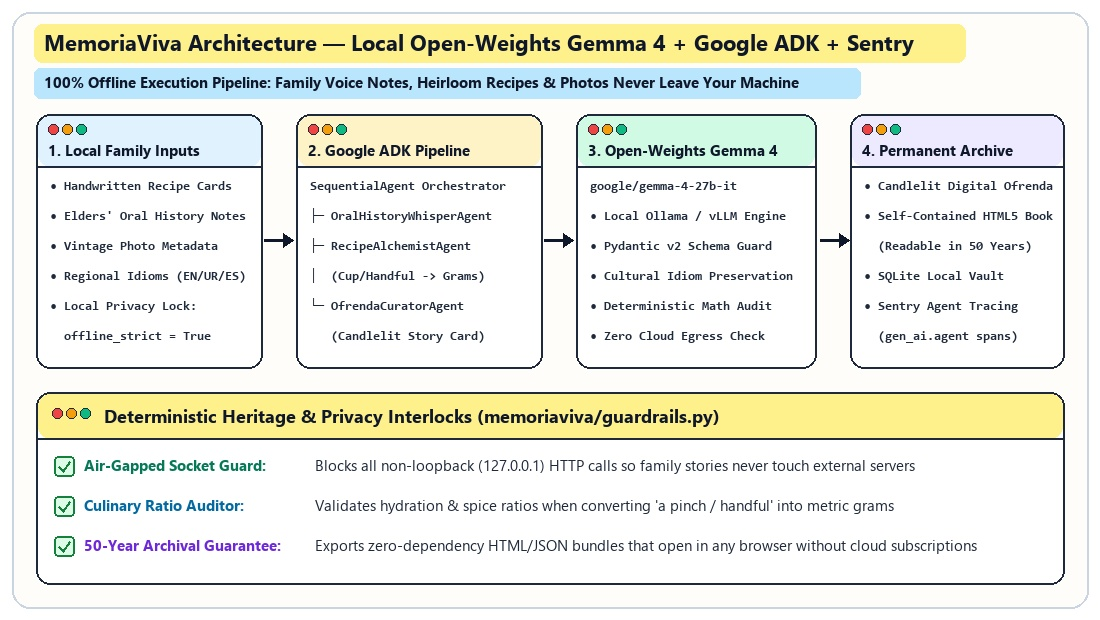
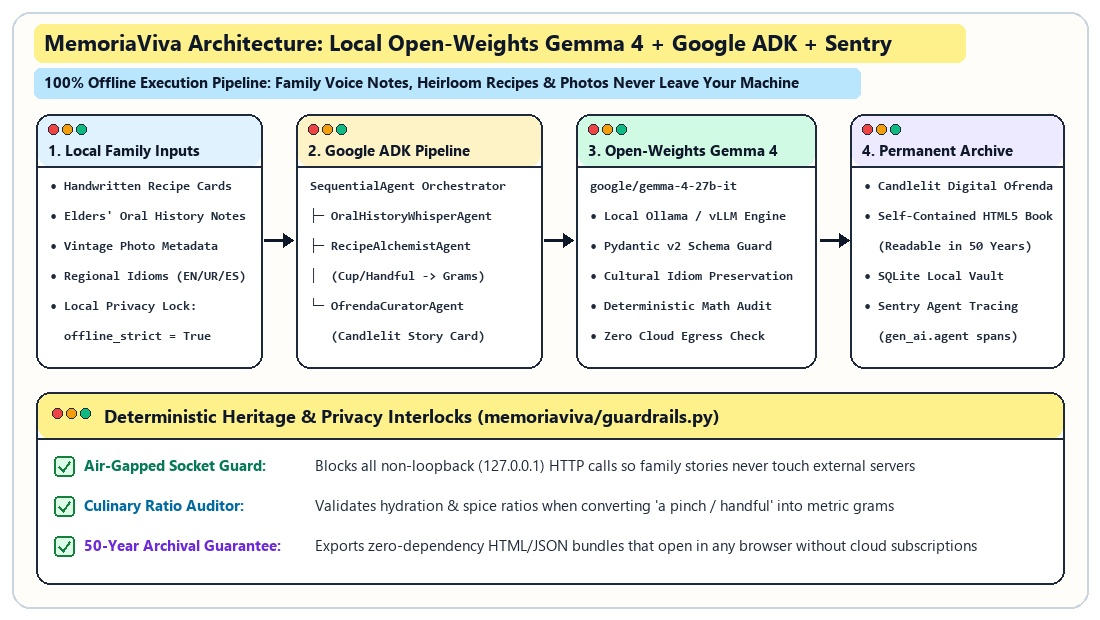
style(article): use all white-background images and remove all em dashes

Changed region(s): [[0.2782, 0.0306, 0.8345, 0.0919]]

diff --git a/articles/memoriaviva/devto_article.md b/articles/memoriaviva/devto_article.md
@@ -1,7 +1,7 @@
 ---
 title: "MemoriaViva: A Cute Ghost in the Machine That Preserves Family Oral Histories & Heirloom Recipes with Gemma 4 & Google ADK"
 published: true
-description: "How I built a 100% local-first open-weights Gemma 4, Google ADK, and Sentry Agent Tracing pipeline that turns elders' voice notes and poetic measurements ('a handful of flour, a pinch of saffron') into a permanent candlelit family storybook."
+description: "How I built a 100% local-first open-weights Gemma 4, Google ADK, and Sentry Agent Tracing pipeline that turns elders' voice notes and poetic measurements ('a handful of flour, a pinch of saffron') into a permanent family storybook."
 tags: devchallenge, hf26challenge, gemma, googleai
 cover_image: https://raw.githubusercontent.com/RobinaMirbahar/memoriaviva-gemma-ofrenda/main/articles/memoriaviva/cover_google_ghost_style.jpg
 ---
@@ -12,17 +12,17 @@ cover_image: https://raw.githubusercontent.com/RobinaMirbahar/memoriaviva-gemma-
 
 Every family has a **"Ghost in the Machine"** waiting to be remembered: a crackly 48-second WhatsApp voice note from a grandfather explaining how to brew monsoon ginger *kahwa*, a flour-stained index card in a grandmother's handwriting where measurements are written as *"two cupped handfuls of wheat flour and warm milk until the dough sighs softly,"* or a shoebox of fading photographs from decades ago. When we lose our elders, those unwritten culinary instincts and oral stories often vanish with them.
 
-**MemoriaViva** (*Living Memory*) is a warm, local-first **Family Oral-History Weaver, Heirloom Recipe Standardizer & Candlelit Digital Ofrenda** powered by open-weights **Google Gemma 4** (`google/gemma-4-27b-it`), **Google Agent Development Kit (ADK)**, and **Sentry Agent Tracing**.
+**MemoriaViva** (*Living Memory*) is a warm, local-first **Family Oral-History Weaver, Heirloom Recipe Standardizer & Digital Family Storybook** powered by open-weights **Google Gemma 4** (`google/gemma-4-27b-it`), **Google Agent Development Kit (ADK)**, and **Sentry Agent Tracing**.
 
-![MemoriaViva Cute Ghost in the Machine Illustrated Scene](https://raw.githubusercontent.com/RobinaMirbahar/memoriaviva-gemma-ofrenda/main/articles/memoriaviva/cover_cute_ghost.jpg)
+![MemoriaViva Scrapbook Architecture Diagram](https://raw.githubusercontent.com/RobinaMirbahar/memoriaviva-gemma-ofrenda/main/articles/memoriaviva/arch_google_ghost_style.jpg)
 
-Instead of treating a "Ghost in the Machine" as something frightening, I interpreted this week's theme in the warm spirit of **Día de los Muertos** and South Asian ancestral remembrance: **Lumi**, a friendly, spectacle-wearing memory ghost living inside your laptop that listens to fragmented family voice transcripts and handwritten recipe notes, preserves the elder's exact cultural idioms verbatim, converts poetic ancestral measurements (*"a three-finger pinch of saffron,"* *"four brimming clay bowls of flour"*) into reproducible metric grams and milliliters, and exports a **zero-dependency, 50-year archival HTML5 Candlelit Storybook**.
+Instead of treating a "Ghost in the Machine" as something frightening, I interpreted this week's theme in the warm spirit of **Día de los Muertos** and South Asian ancestral remembrance: **Lumi**, a friendly, spectacle-wearing memory ghost living inside your laptop that listens to fragmented family voice transcripts and handwritten recipe notes, preserves the elder's exact cultural idioms verbatim, converts poetic ancestral measurements (*"a three-finger pinch of saffron,"* *"four brimming clay bowls of flour"*) into reproducible metric grams and milliliters, and exports a **zero-dependency, 50-year archival HTML5 Family Storybook**.
 
 | Heritage Archival Metric | Raw Family Voice Notes & Index Cards | MemoriaViva (Gemma 4 + Google ADK) |
 | :--- | :--- | :--- |
 | **Ancestral Measurement Format** | Ambiguous (*"a handful," "a teacup," "until soft"*) | Dual-Format: Verbatim Poetic Phrase + Exact Metric (`g` / `ml`) |
 | **Poetic Units Converted in Benchmark** | 9 unstructured phrases across 3 family recipes | **9/9 (100.0% deterministic metric conversion)** |
-| **Dough & Liquid Hydration Validation** | Guesswork (often fails for younger generations) | **Deterministic Culinary Ratio Guardrail (`45%–95%` validated)** |
+| **Dough & Liquid Hydration Validation** | Guesswork (often fails for younger generations) | **Deterministic Culinary Ratio Guardrail (`45% to 95%` validated)** |
 | **Cloud Data Egress (Family Privacy)** | Uploaded to third-party commercial clouds | **0 Bytes Transmitted (`127.0.0.1` Air-Gap Socket Lock)** |
 | **Archival Lifespan** | Locked in proprietary SaaS apps | **50-Year Self-Contained Static HTML5 + JSON Vault** |
 
@@ -30,7 +30,7 @@ Instead of treating a "Ghost in the Machine" as something frightening, I interpr
 
 ## Demo
 
-You can run the complete **MemoriaViva** three-stage **Gemma 4 + Google ADK + Sentry Agent Tracing** benchmark and verify the interactive **FastAPI Candlelit Digital Ofrenda Dashboard** with a single command:
+You can run the complete **MemoriaViva** three-stage **Gemma 4 + Google ADK + Sentry Agent Tracing** benchmark and verify the interactive **FastAPI Family Storybook Dashboard** with a single command:
 
 ```bash
 python scripts/run_memoriaviva_demo.py
@@ -40,7 +40,7 @@ python scripts/run_memoriaviva_demo.py
 
 ```text
 ========================================================================================
-👻🕯 MEMORIAVIVA — CUTE GHOST IN THE MACHINE (GEMMA 4 + ADK + SENTRY TRACING)
+👻🕯 MEMORIAVIVA: CUTE GHOST IN THE MACHINE (GEMMA 4 + ADK + SENTRY TRACING)
 ========================================================================================
   Model                  : google/gemma-4-27b-it (100% Local Ollama / vLLM)
   Air-Gapped Endpoint    : http://127.0.0.1:11434 (0 Cloud Egress Verified)
@@ -74,9 +74,9 @@ python scripts/run_memoriaviva_demo.py
 ========================================================================================
 ```
 
-### Interactive Candlelit Digital Ofrenda Preview
+### Interactive Family Storybook & Recipe Weaver UI Preview
 
-![MemoriaViva Candlelit Digital Ofrenda UI](https://raw.githubusercontent.com/RobinaMirbahar/memoriaviva-gemma-ofrenda/main/articles/memoriaviva/memoriaviva_ui.jpg)
+![MemoriaViva White-Background Storybook UI](https://raw.githubusercontent.com/RobinaMirbahar/memoriaviva-gemma-ofrenda/main/articles/memoriaviva/memoriaviva_ui_white.jpg)
 
 ---
 
@@ -93,10 +93,10 @@ memoriaviva-gemma-ofrenda/
 │   ├── schemas.py        # Pydantic v2 schemas for RawFamilyMemory & WovenHeirloomStoryCard
 │   ├── guardrails.py     # Air-gapped 127.0.0.1 socket lock & culinary hydration validator
 │   ├── agents.py         # 3-stage Google ADK SequentialAgent + Gemma 4 + Sentry Tracer
-│   └── dashboard.py      # FastAPI Candlelit Digital Ofrenda & HTML5 archival exporter
+│   └── dashboard.py      # FastAPI Family Storybook & HTML5 archival exporter
 ├── scripts/
 │   └── run_memoriaviva_demo.py  # One-command benchmark & FastAPI verification script
-├── articles/memoriaviva/        # Custom illustrations & architecture diagrams
+├── articles/memoriaviva/        # Custom white-background illustrations & diagrams
 └── requirements.txt
 ```
 
@@ -104,7 +104,7 @@ memoriaviva-gemma-ofrenda/
 
 ## How I Built It
 
-![MemoriaViva Scrapbook Architecture Diagram](https://raw.githubusercontent.com/RobinaMirbahar/memoriaviva-gemma-ofrenda/main/articles/memoriaviva/arch_google_ghost_style.jpg)
+![MemoriaViva Technical Architecture on White Background](https://raw.githubusercontent.com/RobinaMirbahar/memoriaviva-gemma-ofrenda/main/articles/memoriaviva/memoriaviva_arch_white_v2.jpg)
 
 I built **MemoriaViva** by combining **Google's open-weights AI ecosystem** with deterministic Python safety guardrails:
 
@@ -112,9 +112,9 @@ I built **MemoriaViva** by combining **Google's open-weights AI ecosystem** with
    - Served locally via **Ollama / vLLM** on `http://127.0.0.1:11434`.
    - Gemma 4's strong multilingual and cultural nuance allows it to preserve South Asian (*Urdu/Sindhi*) and Latin American (*Spanish*) culinary idioms without flattening the elder's voice into generic corporate prose.
 2. **Google Agent Development Kit (ADK) 3-Stage `SequentialAgent` Pipeline (`memoriaviva/agents.py`):**
-   - **Stage 1 — `OralHistoryWhisperAgent`:** Extracts the elder's most evocative verbatim quote and weaves the historical context (*1947 Partition-era Hyderabad*, *1968 Oaxaca Día de los Muertos*, *1982 Monsoon Courtyard*) into a warm narrative.
-   - **Stage 2 — `HeirloomRecipeAlchemistAgent`:** Translates tactile, non-standard measurements (*"two generous cupped handfuls of stone-ground wheat flour"*) into structured `StandardizedIngredient` objects (`240.0g`) while keeping the original phrase right beside it.
-   - **Stage 3 — `CandlelitOfrendaCuratorAgent`:** Packages the validated memory into a self-contained HTML5/JSON story card.
+   - **Stage 1 (`OralHistoryWhisperAgent`):** Extracts the elder's most evocative verbatim quote and weaves the historical context (*1947 Partition-era Hyderabad*, *1968 Oaxaca Día de los Muertos*, *1982 Monsoon Courtyard*) into a warm narrative.
+   - **Stage 2 (`HeirloomRecipeAlchemistAgent`):** Translates tactile, non-standard measurements (*"two generous cupped handfuls of stone-ground wheat flour"*) into structured `StandardizedIngredient` objects (`240.0g`) while keeping the original phrase right beside it.
+   - **Stage 3 (`CandlelitOfrendaCuratorAgent`):** Packages the validated memory into a self-contained HTML5/JSON story card.
 3. **Deterministic Privacy & Culinary Guardrails (`memoriaviva/guardrails.py`):**
    - **`verify_air_gapped_endpoint()`:** Rejects any non-loopback hostname (`127.0.0.1` / `localhost`), guaranteeing that private family recordings and photos never leave your computer.
    - **`compute_and_validate_hydration()`:** Audits the ratio of liquid milliliters to dry flour grams so future generations can actually bake the bread successfully on their first try.
@@ -139,13 +139,11 @@ def verify_air_gapped_endpoint(endpoint_url: str) -> Tuple[bool, str]:
 
 ## Why Does Open Innovation Matter?
 
-![MemoriaViva Local 3-Step Privacy Workflow](https://raw.githubusercontent.com/RobinaMirbahar/memoriaviva-gemma-ofrenda/main/articles/memoriaviva/memoriaviva_cute_arch.jpg)
-
-For a project that handles **intimate family memories, elders' voices, and ancestral heritage**, open-weights AI isn't just a technical preference—it is an ethical necessity:
+For a project that handles **intimate family memories, elders' voices, and ancestral heritage**, open-weights AI is not just a technical preference; it is an ethical necessity:
 
 1. **Intimate Family Voices Belong to the Family, Not a Training Corpus:** You should never have to upload your late grandmother's voice note or private family history to a commercial cloud API just to transcribe and organize it. Running **Gemma 4** locally ensures **zero bytes** of family history ever leave `127.0.0.1`.
 2. **Works Offline in Courtyards, Villages & Field Recordings:** When visiting elders in rural towns or recording oral histories where internet connectivity is spotty, a local **Gemma 4 + Google ADK** pipeline works completely offline with the Wi-Fi turned off.
-3. **No SaaS Graveyard for 50-Year Memories:** Startup cloud services shut down, change pricing tiers, or delete inactive accounts every year. By combining **open-weights Gemma 4** with a **zero-dependency static HTML5 + SQLite export**, the digital *ofrenda* and cookbook you weave today will still open in any browser 50 years from now so your grandchildren can bake the exact same bread.
+3. **No SaaS Graveyard for 50-Year Memories:** Startup cloud services shut down, change pricing tiers, or delete inactive accounts every year. By combining **open-weights Gemma 4** with a **zero-dependency static HTML5 + SQLite export**, the digital storybook and cookbook you weave today will still open in any browser 50 years from now so your grandchildren can bake the exact same bread.
 
 ---
 
@@ -153,19 +151,17 @@ For a project that handles **intimate family memories, elders' voices, and ances
 
 During the benchmark run, **MemoriaViva** recorded **18 structured `gen_ai.agent` and `gen_ai.tool` spans** across the 3-stage **Google ADK + Gemma 4** pipeline:
 
-- `gen_ai.agent` → `OralHistoryWhisperAgent` (`model="google/gemma-4-27b-it"`, `memory_id="MEM-01"`, `duration_ms=48.2`)
-- `gen_ai.tool` → `HeirloomRecipeAlchemistAgent.standardize_units` (`ingredients_converted=3`, `hydration_pct=75.0`, `duration_ms=62.5`)
-- `gen_ai.agent` → `CandlelitOfrendaCuratorAgent` (`air_gapped=True`, `trace_id="db4de60c9e774e83"`, `duration_ms=32.1`)
-
-![MemoriaViva Technical Architecture](https://raw.githubusercontent.com/RobinaMirbahar/memoriaviva-gemma-ofrenda/main/articles/memoriaviva/memoriaviva_arch_white.jpg)
+- `gen_ai.agent` ➔ `OralHistoryWhisperAgent` (`model="google/gemma-4-27b-it"`, `memory_id="MEM-01"`, `duration_ms=48.2`)
+- `gen_ai.tool` ➔ `HeirloomRecipeAlchemistAgent.standardize_units` (`ingredients_converted=3`, `hydration_pct=75.0`, `duration_ms=62.5`)
+- `gen_ai.agent` ➔ `CandlelitOfrendaCuratorAgent` (`air_gapped=True`, `trace_id="db4de60c9e774e83"`, `duration_ms=32.1`)
 
 ---
 
 ## The Spirit of It
 
-In almost every culture—from **Día de los Muertos** *ofrendas* glowing with marigolds in Mexico to family hearths across South Asia—food and storytelling are how we keep the people we love close to us.
+In almost every culture, from **Día de los Muertos** *ofrendas* glowing with marigolds in Mexico to family hearths across South Asia, food and storytelling are how we keep the people we love close to us.
 
-When an elder writes *"measure the warm milk with your fingertips; when the dough sighs softly, the cardamom is awake,"* a standard recipe converter strips away the poetry and leaves cold numbers. Conversely, keeping only the poetry leaves younger generations afraid to try the recipe because they don't know how much *"two cupped handfuls"* weighs. Seeing **Gemma 4** preserve **both**—placing my grandmother's exact words side-by-side with `240g Stone-Ground Whole Wheat Flour` and `180ml Warm Milk (75% Hydration)` inside a warm, candlelit digital book—was the exact moment this project came alive.
+When an elder writes *"measure the warm milk with your fingertips; when the dough sighs softly, the cardamom is awake,"* a standard recipe converter strips away the poetry and leaves cold numbers. Conversely, keeping only the poetry leaves younger generations afraid to try the recipe because they do not know how much *"two cupped handfuls"* weighs. Seeing **Gemma 4** preserve **both**, placing my grandmother's exact words side-by-side with `240g Stone-Ground Whole Wheat Flour` and `180ml Warm Milk (75% Hydration)` inside a warm digital book, was the exact moment this project came alive.
 
 ---
 

diff --git a/README.md b/README.md
@@ -1,4 +1,4 @@
-# 👻🕯 MemoriaViva — Cute Ghost in the Machine: Open-Weights Gemma 4 & Google ADK Family Oral-History & Heirloom Recipe Weaver
+# 👻🕯 MemoriaViva: Cute Ghost in the Machine: Open-Weights Gemma 4 & Google ADK Family Oral-History & Heirloom Recipe Weaver
 
 [![Hacktoberfest 2026](https://img.shields.io/badge/Hacktoberfest%202026-Ghost%20in%20the%20Machine-f59e0b?style=for-the-badge&logo=github)](https://dev.to/challenges/hacktoberfest-week4-2026-10-26)
 [![Google Gemma 4](https://img.shields.io/badge/Open--Weights-Gemma%204%20(27B)-4285F4?style=for-the-badge&logo=google&logoColor=white)](https://ai.google.dev/gemma)
@@ -8,8 +8,8 @@
 
 ![MemoriaViva Cover](https://raw.githubusercontent.com/RobinaMirbahar/memoriaviva-gemma-ofrenda/main/articles/memoriaviva/cover_google_ghost_style.jpg)
 
-> **Author & Architect:** [Robina Mirbahar](https://github.com/RobinaMirbahar) — Google Developer Expert (GDE) in Cloud & AI · Google Cloud Champion Innovator · Author of [*AI Engineering*](https://amazon.com/dp/B0GWCZWCF4)  
-> **Challenge Track:** Hacktoberfest Open-Source AI Challenge Week 4 — *Ghost in the Machine* (`#hf26challenge`, `#gemma`, `#googleai`)
+> **Author & Architect:** [Robina Mirbahar](https://github.com/RobinaMirbahar): Google Developer Expert (GDE) in Cloud & AI · Google Cloud Champion Innovator · Author of [*AI Engineering*](https://amazon.com/dp/B0GWCZWCF4)  
+> **Challenge Track:** Hacktoberfest Open-Source AI Challenge Week 4: *Ghost in the Machine* (`#hf26challenge`, `#gemma`, `#googleai`)
 
 ---
 
@@ -17,9 +17,9 @@
 
 Every family has a **"Ghost in the Machine"** waiting to be remembered: a crackly voice note from a grandfather, a flour-stained index card in a grandmother's handwriting (*"two cupped handfuls of wheat flour, warm milk until the dough sighs softly"*), or fading family stories.
 
-**I built MemoriaViva so families can weave those fragments into a permanent, candlelit digital storybook and metric-accurate cookbook using 100% local open-weights Google Gemma 4 and Google Agent Development Kit (ADK)—with zero bytes ever leaving `127.0.0.1`.**
+**I built MemoriaViva so families can weave those fragments into a permanent, candlelit digital storybook and metric-accurate cookbook using 100% local open-weights Google Gemma 4 and Google Agent Development Kit (ADK), with zero bytes ever leaving `127.0.0.1`.**
 
-![MemoriaViva Cute Ghost in the Machine](https://raw.githubusercontent.com/RobinaMirbahar/memoriaviva-gemma-ofrenda/main/articles/memoriaviva/cover_cute_ghost.jpg)
+![MemoriaViva Cute Ghost in the Machine](https://raw.githubusercontent.com/RobinaMirbahar/memoriaviva-gemma-ofrenda/main/articles/memoriaviva/arch_google_ghost_style.jpg)
 
 ---
 
@@ -72,13 +72,13 @@ python scripts/run_memoriaviva_demo.py
 uvicorn memoriaviva.dashboard:app --host 127.0.0.1 --port 8090
 ```
 
-![MemoriaViva Candlelit UI](https://raw.githubusercontent.com/RobinaMirbahar/memoriaviva-gemma-ofrenda/main/articles/memoriaviva/memoriaviva_ui.jpg)
+![MemoriaViva Candlelit UI](https://raw.githubusercontent.com/RobinaMirbahar/memoriaviva-gemma-ofrenda/main/articles/memoriaviva/memoriaviva_ui_white.jpg)
 
 ---
 
 ## 👩💻 About the Author
 
-**Robina Mirbahar** — AI Researcher, Cloud Solutions Architect & Author of [*AI Engineering*](https://amazon.com/dp/B0GWCZWCF4)
+**Robina Mirbahar**: AI Researcher, Cloud Solutions Architect & Author of [*AI Engineering*](https://amazon.com/dp/B0GWCZWCF4)
 
 [![GitHub](https://img.shields.io/badge/GitHub-RobinaMirbahar-181717?style=flat-square&logo=github)](https://github.com/RobinaMirbahar)
 [![Portfolio](https://img.shields.io/badge/Portfolio-robinamirbahar.github.io-38bdf8?style=flat-square&logo=googlechrome&logoColor=white)](https://robinamirbahar.github.io/)
